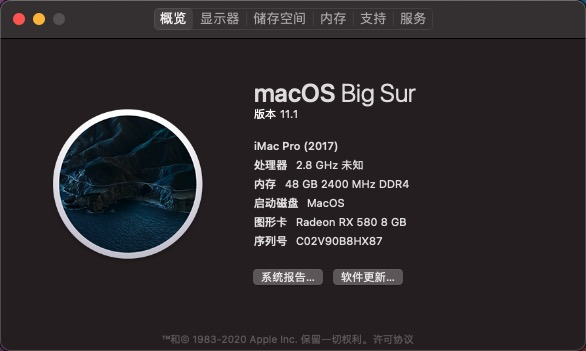
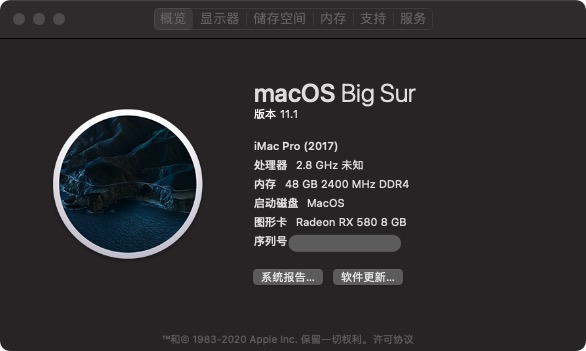
update

diff --git a/黑苹果/Z370M-MORTAR-I7-8400-RX580-OPENCORE.md b/黑苹果/Z370M-MORTAR-I7-8400-RX580-OPENCORE.md
@@ -11,4 +11,6 @@
 
 Only for macOS 11.x , if you want 10.15 or later , change it by yourself。
 只兼容 11.1 ，如果你打算用来装10.15或之前的，自己增删改查一下。
-![this mac](about%20this%20mac.png)
+![info1](info1.jpg)
+![info2](info2.jpg)
+![this mac](info3.jpg)
